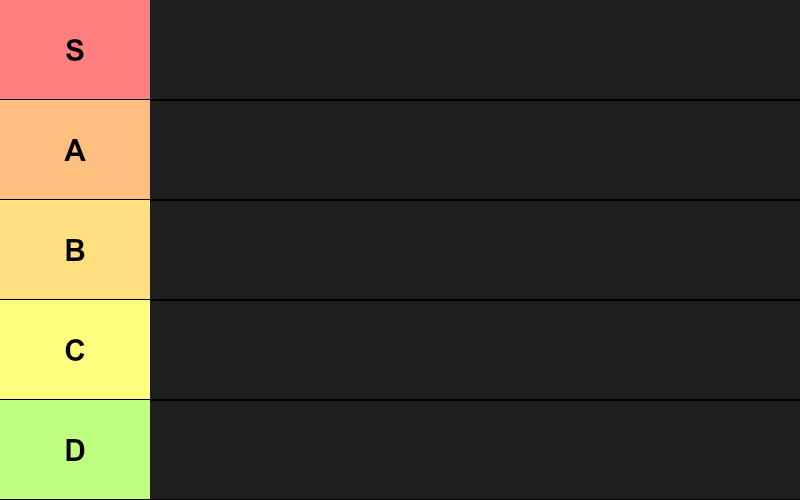
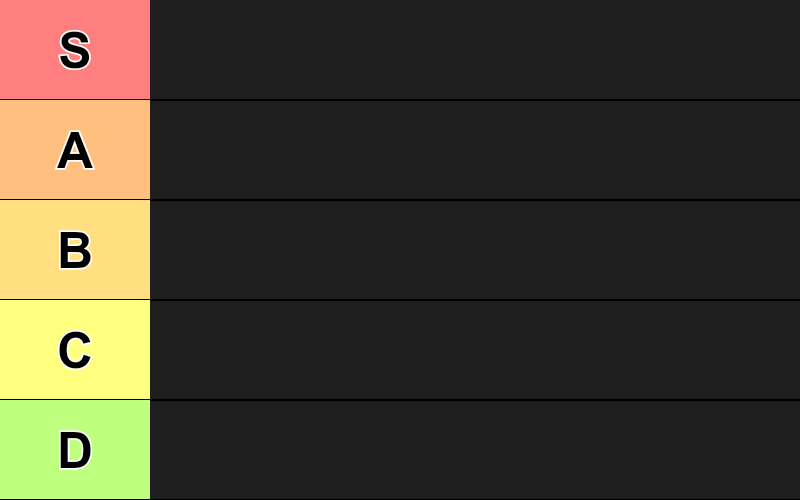
Add strokeText for better visibility

diff --git a/utils/tierListCanvas.js b/utils/tierListCanvas.js
@@ -39,10 +39,17 @@ async function drawTierList(tierData, tierLabels) {
         ctx.fillRect(0, y, LABEL_WIDTH, ROW_HEIGHT);
 
         // Draw Tier Label Text
-        ctx.fillStyle = '#000000';
-        ctx.font = 'bold 30px "DejaVu Sans", Arial, sans-serif';
+        ctx.font = 'bold 50px "DejaVu Sans", Arial, sans-serif';
         ctx.textAlign = 'center';
         ctx.textBaseline = 'middle';
+
+        // Draw white stroke for visibility
+        ctx.strokeStyle = '#ffffff';
+        ctx.lineWidth = 3;
+        ctx.strokeText(tier, LABEL_WIDTH / 2, y + ROW_HEIGHT / 2);
+
+        // Draw black fill
+        ctx.fillStyle = '#000000';
         ctx.fillText(tier, LABEL_WIDTH / 2, y + ROW_HEIGHT / 2);
 
         // Draw Separator Line
